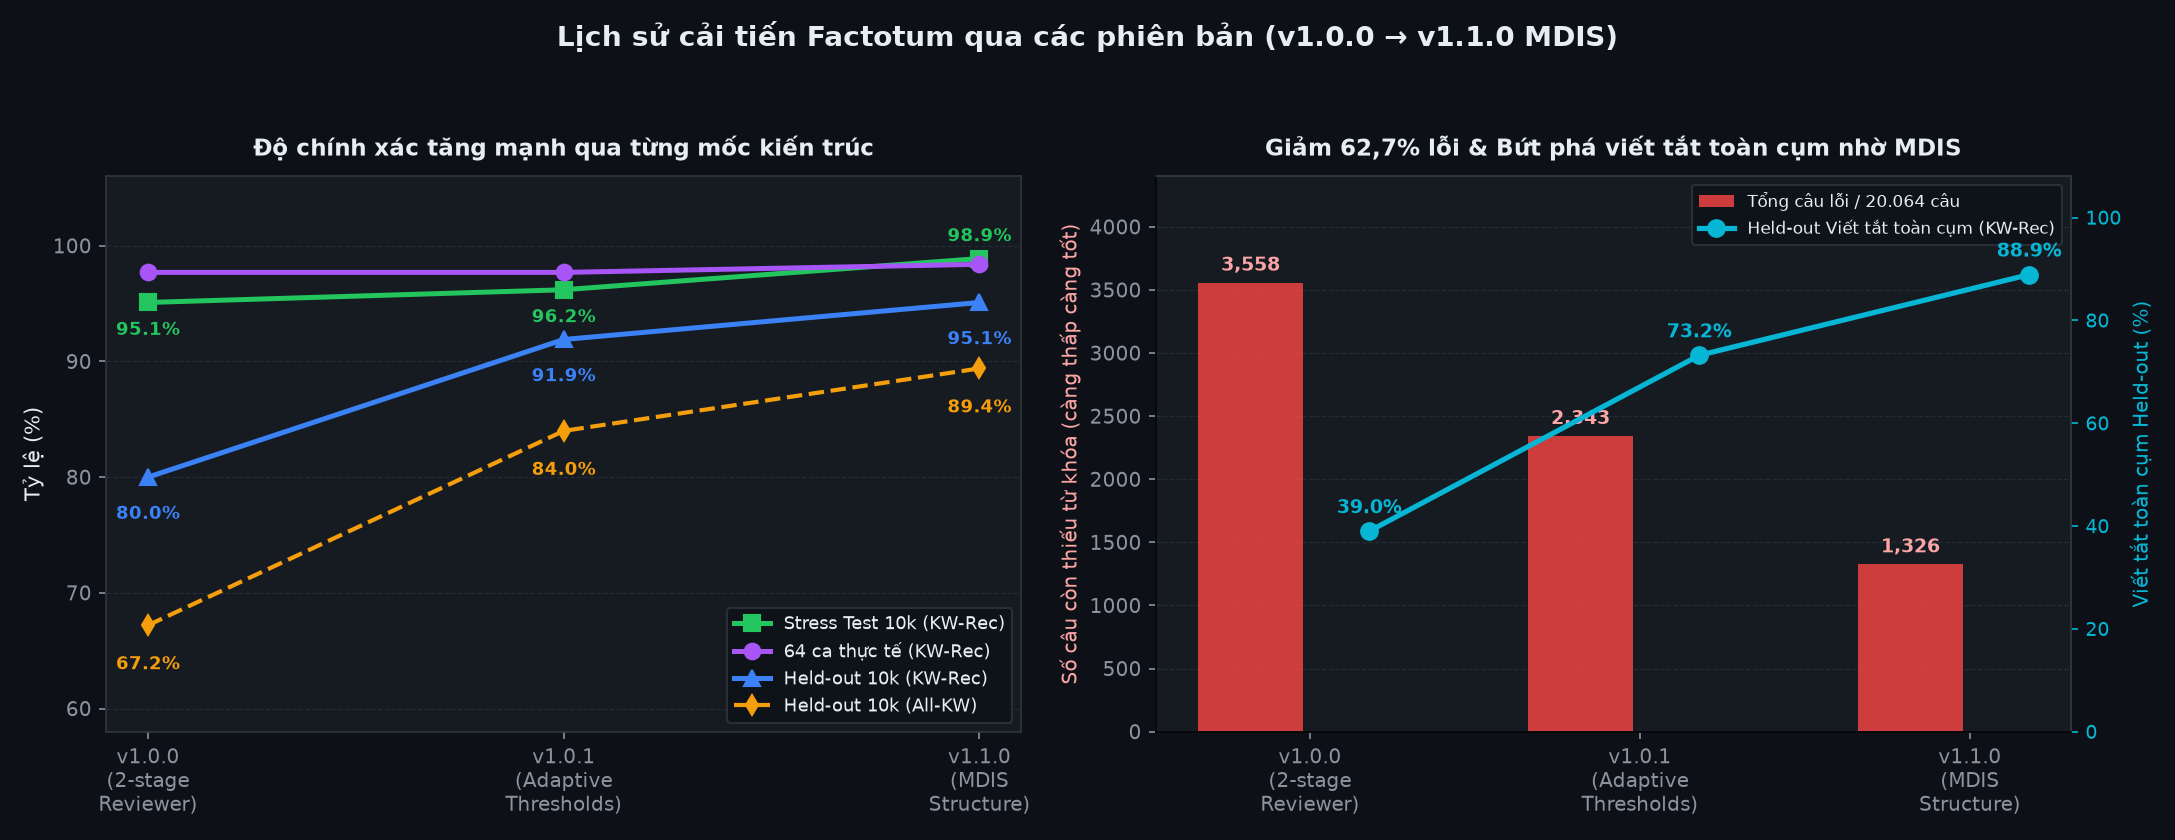
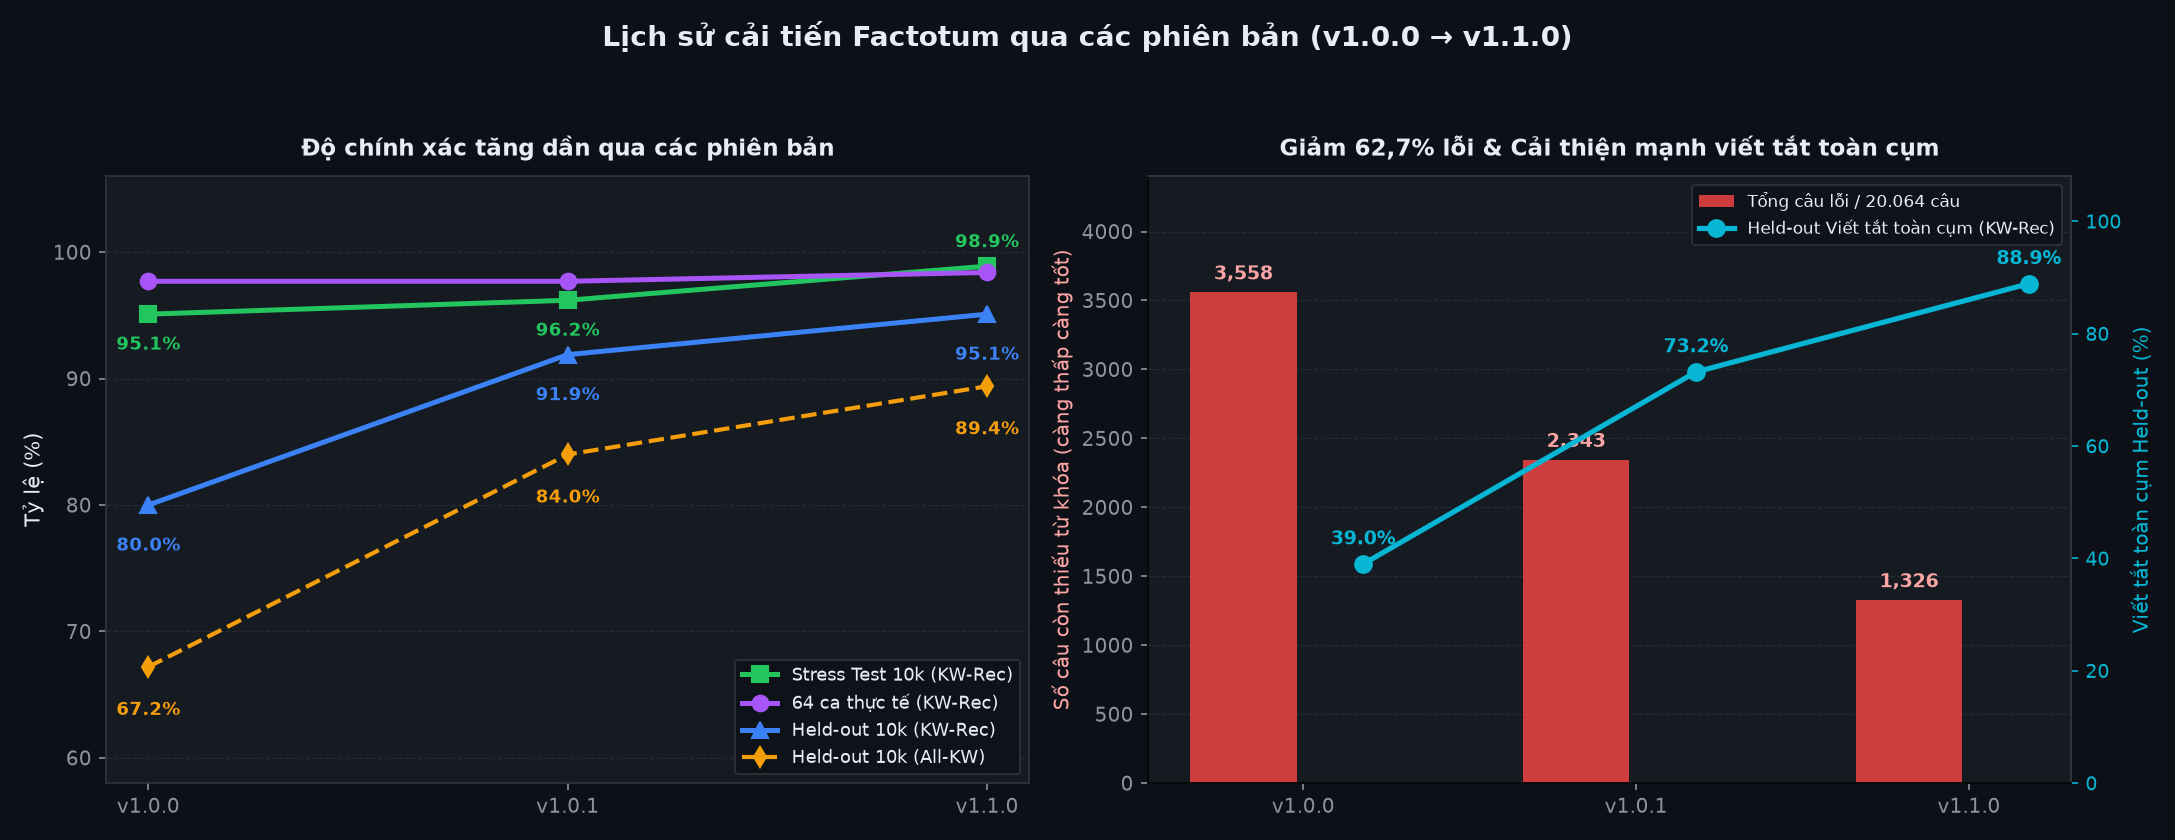
docs: keep version notes and charts focused on user-facing results

diff --git a/CHANGELOG.md b/CHANGELOG.md
@@ -4,31 +4,30 @@
 
 ## [1.1.0] - 2026-11-27
 
-Bản nâng cấp kiến trúc lõi với **Cấu trúc Giao cắt Đa chiều có Thứ tự (MDIS)**, giúp bứt phá mạnh độ chính xác mở rộng viết tắt theo neo ngữ cảnh và tăng tốc tra cứu cụm con.
+Bản nâng cấp lớn về chất lượng mở rộng viết tắt theo ngữ cảnh, độ chính xác khôi phục dấu và tốc độ tra cứu cụm từ.
 
-### Nâng cấp kiến trúc & tính năng
+### Cải tiến chính
 
-- **Cấu trúc vật lý MDIS (`src/factotum/engine/mdis.py`):** Triển khai đầy đủ `MDISStore` gồm thực thể (`entities` + 1 thực thể giả `<AUX>`), chiều dương `+` (ngữ cảnh xuôi), chiều âm `-` (hứng giao điểm đối ứng chặn đầu bằng `<AUX>`), giao điểm 2 phía (`events`) truy xuất `other_entity` trong $O(1)$ và chỉ mục tọa độ vật lý nén 64-bit (`edge_postings`) nhanh hơn **2,65×** so với quét chuỗi con trên truy vấn cụm con.
-- **Mở rộng viết tắt neo gốc theo bất biến MDIS:** Bổ sung `GraphIndex.mdis_acronym_extensions()` kết hợp hậu kiểm theo neo trái/phải (`+`/`-`) trong `reviewer.py`, bảo toàn trạng thái cụm KB cho viết tắt dài (4+ từ) trong `context.py` và chặn sửa sai nguyên âm đối với từ viết tắt thuần phụ âm trong `spell.py`.
-- **Phá vỡ đồng hạng bằng biến dạng dấu NFD:** Khi xác suất chuyển Markov $P_{\text{markov}} = 0$, tự động ưu tiên ứng viên có số thao tác biến đổi dấu nhỏ nhất (tránh lệch thanh điệu).
-- **Xuất/nạp kho tri thức MDIS:** Hỗ trợ lưu/nạp file nén `.mdis` (`save_mdis()`, `load_mdis()`) và xuất file văn bản thuần UTF-8 `MDIS.txt` (`export_mdis_txt()`) để kiểm tra trực tiếp.
+- Cải thiện mạnh khả năng mở rộng viết tắt toàn cụm và viết tắt dài nhiều từ dựa trên ngữ cảnh xung quanh.
+- Giảm thiểu lỗi lệch dấu thanh điệu trên các cụm từ hiếm hoặc ngoài tập huấn luyện.
+- Tối ưu tốc độ tra cứu cụm con trên kho tri thức lớn.
 
 ### Kết quả Benchmark (20.064 câu — `report_10000_20261127_115720.txt`)
 
-- **Held-out 10.000 câu:** **`95,1%` KW-Rec / `89,4%` All-KW / `95,5%` Ctx-F1** (viết tắt toàn cụm tăng vọt từ `73,2% → 88,9%` KW-Rec và `52,8% → 79,8%` All-KW).
+- **Held-out 10.000 câu:** **`95,1%` KW-Rec / `89,4%` All-KW / `95,5%` Ctx-F1** (viết tắt toàn cụm tăng từ `73,2% → 88,9%` KW-Rec và `52,8% → 79,8%` All-KW).
 - **64 ca thực tế (`context_cases.json`):** **`98,4%` KW-Rec / `96,9%` All-KW / `99,7%` Ctx-F1** (`62/64` câu đạt 100%).
 - **Stress Test 10.000 câu:** **`98,9%` KW-Rec / `97,4%` All-KW / `99,1%` Ctx-F1** (viết tắt toàn cụm tăng từ `79,5% → 97,8%` KW-Rec).
 - Tổng số câu còn thiếu từ khóa trên 20.064 câu giảm **43,4%** so với v1.0.1 (`2.343 → 1.326` câu) và **62,7%** so với v1.0.0 (`3.558 → 1.326` câu).
 
 ## [1.0.1] - 2026-11-26
 
-Cải tiến ngưỡng thích ứng không gán cứng và sửa lỗi chính tả đa từ.
+Cải tiến khả năng sửa lỗi chính tả đa từ, khôi phục nhiều vị trí thiếu từ trên câu dài và mở rộng bộ kiểm thử thực tế.
 
-### Nâng cấp chính
+### Cải tiến chính
 
-- **Ngưỡng thích ứng không gán cứng (Zero-Hardcoding Adaptive Thresholds):** Tự suy diễn `strong_kb_freq`, `medium_kb_freq` và ngưỡng độ tin cậy trực tiếp từ phân phối tần suất của kho tri thức thay vì gán hằng số cố định.
-- **Beam Search 2 chiều cho lỗi chính tả đa từ liền kề (`spell.py`):** Khôi phục được 2 từ sai chính tả liên tiếp dựa trên neo đầu/giữa/cuối và xử lý đa vị trí thiếu từ trên câu dài.
-- **Kết quả Benchmark:** Held-out 10.000 câu tăng từ `80,0% → 91,9%` KW-Rec (`67,2% → 84,0%` All-KW); mở rộng bộ test thực tế từ 30 lên 64 câu đạt `97,7%` KW-Rec.
+- Nâng cao độ ổn định khi làm rõ các câu dài có nhiều từ bị thiếu hoặc nhiều từ sai chính tả đứng liền nhau.
+- Mở rộng bộ kiểm thử thực tế từ 30 câu lên 64 câu có từ khóa bắt buộc (`97,7%` KW-Rec).
+- Held-out 10.000 câu tăng từ `80,0% → 91,9%` KW-Rec (`67,2% → 84,0%` All-KW).
 
 ## [1.0.0] - 2026-11-25
 
@@ -37,8 +36,8 @@ Phiên bản ổn định đầu tiên của Factotum — công cụ làm rõ ng
 ### Tính năng
 
 - Làm rõ ngữ cảnh tiếng Việt: mở rộng viết tắt chữ cái đầu (`csgt xpvphc`, `xpvphc atgt`), giải nhập nhằng theo ngữ cảnh (`nd` → `nghị định` / `nhân dân`), khôi phục dấu, bổ sung từ bị rơi ở giữa, sửa lỗi chính tả trên câu có dấu, giải mã Telex và ký tự lặp phím.
-- Tự học từ tài liệu riêng (`.txt`, `.doc`, `.docx`) bằng Suffix Array + Maximal Repeats + đồ thị Markov 2 chiều; có sẵn lõi C++ tùy chọn tăng tốc trích xuất và tùy chọn xây lại đồ thị từ `KnowledgeBase.txt` trong CLI (`src/app.py`).
+- Tự học từ tài liệu riêng (`.txt`, `.doc`, `.docx`); hỗ trợ cập nhật tri thức và xây lại dữ liệu trực tiếp trong CLI (`src/app.py`).
 - File mô hình `.ftm` thuần dữ liệu (JSON nén `zlib`, không `pickle`); mô hình pháp luật mẫu `1,29 MB` học từ 156 văn bản công khai.
-- Tầng hậu kiểm 2 chặng (`reviewer.py`) nhận danh sách đoạn chỉnh sửa từ bước tìm kiếm (`edits`), mở rộng cửa sổ ngữ cảnh thích ứng không giới hạn cứng, hội tụ 2 lượt cho các cụm viết tắt đứng sát nhau, lọc câu kết thúc cụt nghĩa (`output/dangling_end_words.txt`) và trả về điểm tin cậy (`confidence`).
+- Lọc câu kết thúc cụt nghĩa (`output/dangling_end_words.txt`) và trả về điểm tin cậy (`confidence`).
 - Giao diện dòng lệnh (`python src/app.py`), demo web Gradio (`python demo/app.py`) và bản dùng thử tĩnh trên Hugging Face Spaces (`demo/build_space.py`).
 - Bộ benchmark làm rõ ngữ cảnh & từ khóa thực thể (`benchmark/run_benchmark.py`, `benchmark/context_cases.json`) đo `KW-Rec / All-KW / Ctx-F1` trên Held-out 10.000 câu (`80,0% KW-Rec / 80,8% Ctx-F1`), 30 ca thực tế (`98,3% KW-Rec / 96,7% All-KW`) và Stress Test 10.000 câu (`95,1% KW-Rec`).

diff --git a/README.md b/README.md
@@ -49,11 +49,11 @@ Hằng ngày người dùng thường gõ tắt (`tngt`, `atgt`, `csgt`, `xpvphc
 - **Chủ động kiểm soát dữ liệu nội bộ:** Khi cài chạy trên máy hoặc máy chủ riêng của bạn, toàn bộ quá trình học tài liệu và xử lý văn bản diễn ra hoàn toàn cục bộ, không cần gửi dữ liệu qua API bên thứ ba.
 - **Phản hồi nhanh trong vài mili-giây:** Đủ mượt để gắn trực tiếp vào thanh tìm kiếm hoặc hộp gợi ý ngay trong lúc người dùng đang gõ.
 - **Tự học từ chính tài liệu của bạn:** Đưa trực tiếp thư mục file Word (`.doc`, `.docx`) hoặc `.txt` của tổ chức vào — Factotum tự rút ra bộ thuật ngữ chuyên ngành mà không cần gán nhãn thủ công.
-- **Minh bạch, dễ kiểm tra (MDIS + văn bản thuần):** Không tự bịa nội dung ngoài dữ liệu đã học. Lõi cấu trúc **MDIS** (giao cắt đa chiều có thứ tự) hỗ trợ xuất trực tiếp ra file tri thức nén `.mdis` và văn bản thuần `MDIS.txt` để kiểm tra.
+- **Minh bạch, dễ kiểm tra:** Không tự bịa nội dung ngoài dữ liệu đã học. Khi câu quá mơ hồ, Factotum ưu tiên giữ nguyên câu gốc thay vì đoán bừa; người dùng có thể mở xem và chỉnh sửa trực tiếp các file tri thức thuần văn bản.
 
 ---
 
-## Kết quả Benchmark nổi bật (v1.1.0 — MDIS)
+## Kết quả Benchmark nổi bật (v1.1.0)
 
 Đánh giá trên **20.064 câu kiểm thử** ([report_10000_20261127_115720.txt](benchmark/report_10000_20261127_115720.txt)):
 

diff --git a/output/README.md b/output/README.md
@@ -13,8 +13,6 @@ Thư mục này lưu trữ toàn bộ **file tri thức thuần văn bản**, **
 | `Data.txt` | **Hạn chế sửa tay** *(file dẫn xuất tự động)* | Không *(sinh cục bộ)* | Bảng cạnh chuyển tiếp Markov $P(v \mid u)$ sinh tự động từ `KnowledgeBase.txt` |
 | `UnaccentedMap.txt` | **Hạn chế sửa tay** *(file dẫn xuất tự động)* | Không *(sinh cục bộ)* | Bảng ánh xạ từ đơn không dấu / chữ cái đầu sang danh sách từ có dấu |
 | `factotum_law.ftm` | **Không sửa tay** *(file đóng gói cho máy đọc)* | Có | Bản đóng gói gọn (`JSON + zlib`) an toàn để chia sẻ & triển khai |
-| `factotum_law.mdis` | **Không sửa tay** *(xuất qua `save_mdis()`)* | Không *(sinh cục bộ)* | Kho tri thức vật lý MDIS nén (`JSON + zlib`): thực thể, chiều `+`/`-`, giao điểm 2 phía & `<AUX>` |
-| `MDIS.txt` | **Chỉ đọc / kiểm tra** *(xuất qua `export_mdis_txt()`)* | Không *(sinh cục bộ)* | Bản văn bản thuần UTF-8 của cấu trúc MDIS (`[ENTITIES]`, `[DIMENSIONS_PLUS]`, `[DIMENSIONS_MINUS]`) |
 | `model_cache.pkl` | **Không sửa tay** *(có thể xóa để tạo lại)* | Không *(cache cục bộ)* | Bộ nhớ đệm nhị phân (`pickle`) giúp khởi động nạp RAM nhanh hơn |
 
 > [!TIP]

diff --git a/README.en.md b/README.en.md
@@ -49,11 +49,11 @@ Every day, users type shorthand (`tngt`, `atgt`, `csgt`, `xpvphc`, `nd`), omit V
 - **Full Control Over Private Data:** When deployed on your machine or private server, all document learning and text clarification run 100% locally — nothing is ever sent to third-party APIs.
 - **Millisecond Latency:** Fast enough to sit directly in front of a search box or typeahead dropdown as the user types.
 - **Learns Directly From Your Documents:** Point Factotum at your `.doc`, `.docx`, or `.txt` folder — it automatically extracts domain terminology with no manual labeling.
-- **Transparent & Inspectable (MDIS + Plain Text):** Never hallucinates outside its learned corpus. Its physical **MDIS** (Multi-Dimensional Ordered Intersection Structure) core exports directly to compact `.mdis` and human-readable `MDIS.txt` files.
+- **Transparent & Inspectable:** Never hallucinates outside its learned corpus. When an input is too ambiguous, Factotum preserves the original text instead of guessing blindly; all knowledge files can be inspected and edited as plain text.
 
 ---
 
-## Benchmark Highlights (v1.1.0 — MDIS)
+## Benchmark Highlights (v1.1.0)
 
 Evaluated across **20,064 test queries** ([report_10000_20261127_115720.txt](benchmark/report_10000_20261127_115720.txt)):
 
